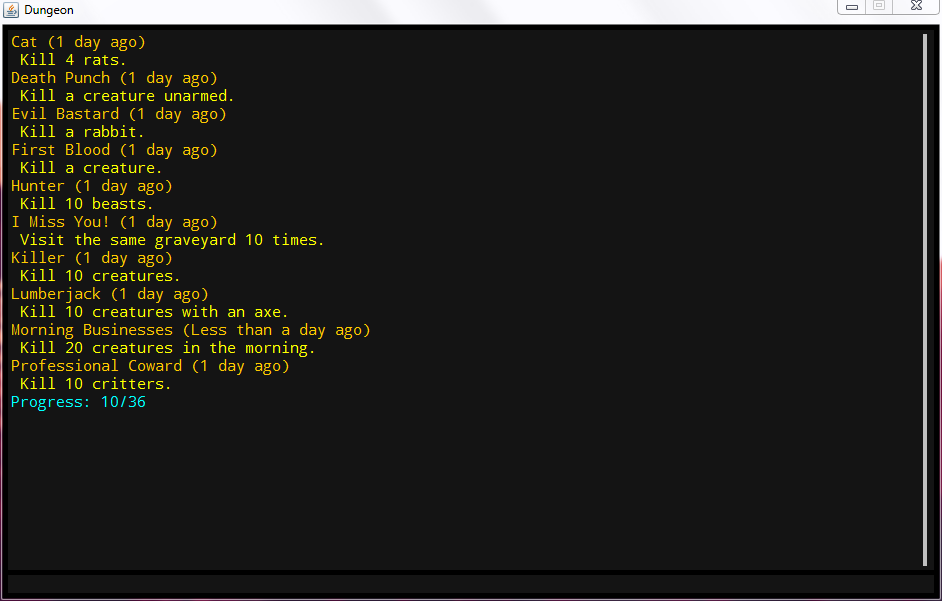
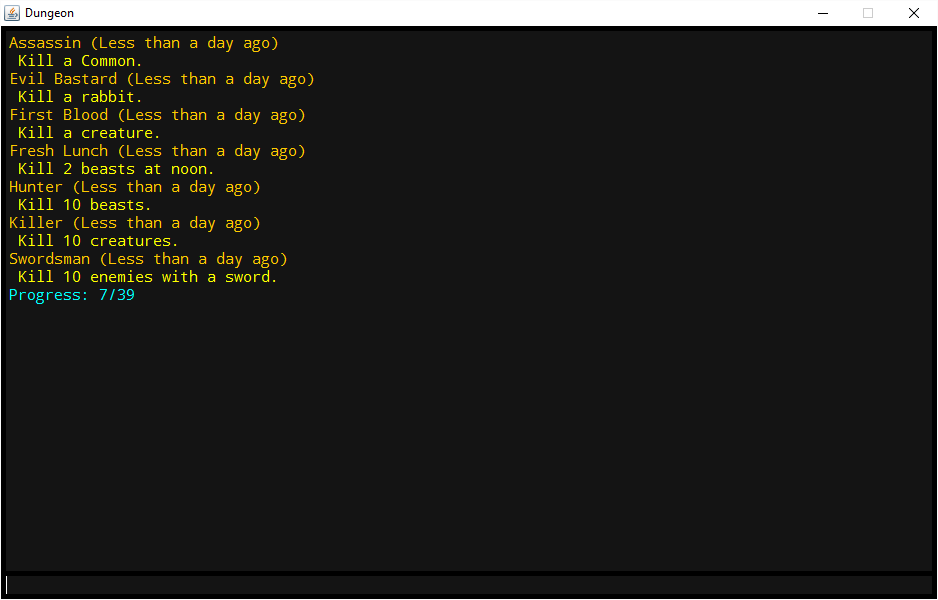
Updated Dungeon screenshots on Windows
Closes #1

Changed region(s): [[0.0, 0.0, 1.0, 1.0]]

diff --git a/dungeon/screenshots.md b/dungeon/screenshots.md
@@ -3,8 +3,9 @@ layout: page
 title: Dungeon Screenshots
 ---
 
-![Lore and graveyard](/assets/lore-and-graveyard.png)
-![Battle](/assets/battle.png)
+![Poem](/assets/poem.png)
+![Combat](/assets/combat.png)
 ![Achievements](/assets/achievements.png)
 ![Map](/assets/map.png)
-![Statistics](/assets/stats.png)
+![New Game](/assets/new-game.png)
+![Wiki](/assets/wiki.png)
